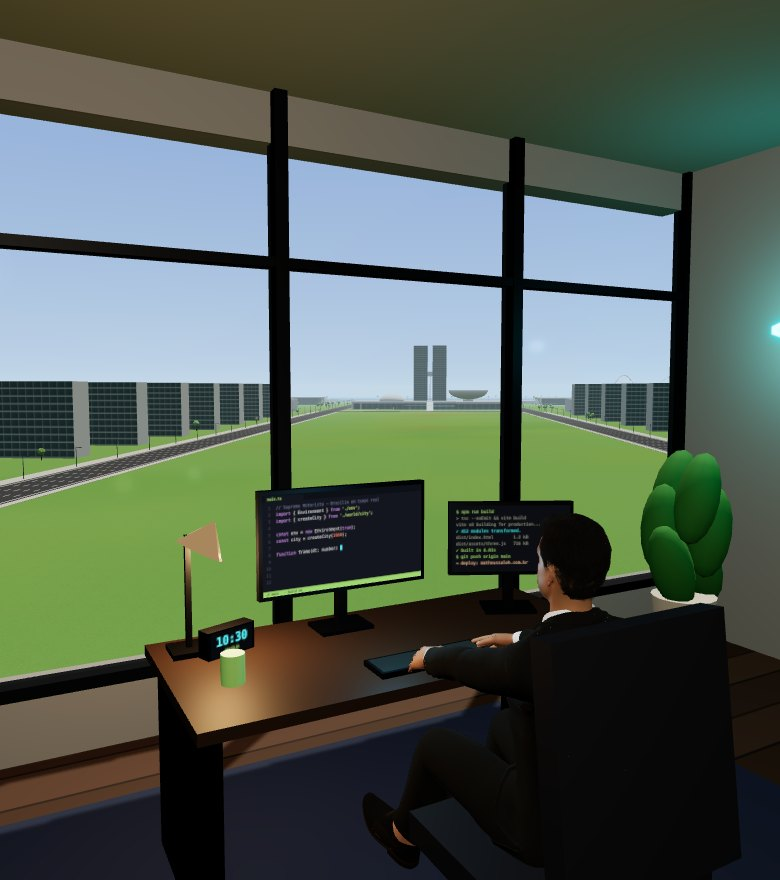
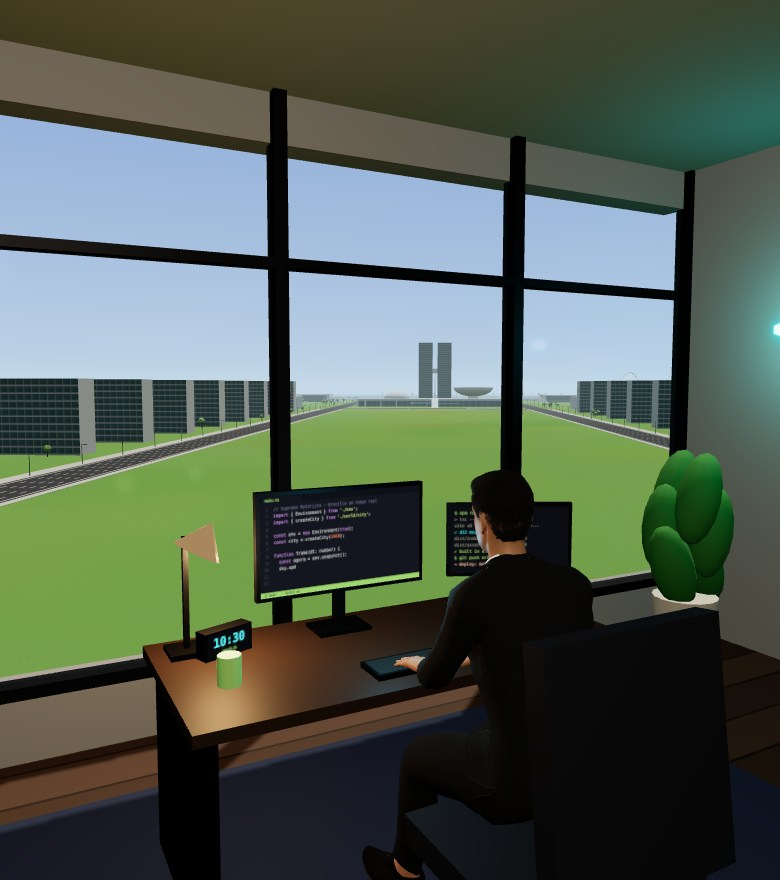
feat: Josué reage ao visitante na cena ao vivo do topo
- Ao abrir a página, Josué entra caminhando e senta à mesa (iframe com ?intro;
  a entrada começa depois da tela de carregamento)
- Acena ao passar o mouse ou o foco em Contato, GitHub e LinkedIn
  (atributo data-vitrine-wave)
- Comemora quando uma conquista é desbloqueada
- O monitor da cena mostra o projeto aberto no Baú
- lib/vitrine-bus: sendToVitrine() para qualquer componente pedir uma reação;
  pedidos feitos antes de a cena ficar pronta são enviados quando ela fica
- Imagens estáticas regeradas com a pose sentada nova

diff --git a/src/components/hero/live-scene.tsx b/src/components/hero/live-scene.tsx
@@ -1,7 +1,7 @@
 "use client";
 
 import { getImageProps, type StaticImageData } from "next/image";
-import { useEffect, useRef, useState } from "react";
+import { useCallback, useEffect, useRef, useState } from "react";
 import diaRetrato from "@/assets/hero/vitrine-dia-retrato.jpg";
 import dia from "@/assets/hero/vitrine-dia.jpg";
 import entardecerRetrato from "@/assets/hero/vitrine-entardecer-retrato.jpg";
@@ -12,6 +12,7 @@ import type { Content } from "@/content/types";
 import { gameOrigin, vitrineUrl } from "@/content/supremo-motorista";
 import type { DayPhase } from "@/lib/day-phase";
 import { cx } from "@/lib/cx";
+import { sendToVitrine, VITRINE_EVENT, WAVE_ATTRIBUTE, type VitrineCommand } from "@/lib/vitrine-bus";
 import { useGame } from "../game-provider";
 
 /**
@@ -61,6 +62,11 @@ export function LiveScene({ scene, href }: { scene: Content["hero"]["game"]["sce
   const [mountFrame, setMountFrame] = useState(false);
   const [live, setLive] = useState(false);
   const [posterLoaded, setPosterLoaded] = useState(false);
+  const [bootDone, setBootDone] = useState(false);
+  const liveRef = useRef(false);
+  /** Pedidos feitos antes de a cena ficar pronta (o último de cada tipo), enviados quando ela fica. */
+  const pending = useRef<{ project?: VitrineCommand; reaction?: VitrineCommand }>({});
+  const arrived = useRef(false);
 
   // Com a tela de carregamento ativa, a cena começa já (o progresso dela aparece lá). Sem ela (visita repetida na
   // sessão), só depois do carregamento da página e com o navegador ocioso.
@@ -110,6 +116,80 @@ export function LiveScene({ scene, href }: { scene: Content["hero"]["game"]["sce
     return () => observer.disconnect();
   }, [live]);
 
+  // Repassa um pedido ao iframe (formato que a vitrine valida; ver Showcase.onCommand no repositório do jogo).
+  const post = useCallback((command: VitrineCommand) => {
+    const target = frame.current?.contentWindow;
+    if (!target) return;
+    const message =
+      command.action === "project"
+        ? {
+            type: "supremo-vitrine:project",
+            name: command.name,
+            caption: command.caption,
+            techs: command.techs,
+            locale: document.documentElement.lang.startsWith("en") ? "en" : "pt",
+          }
+        : { type: "supremo-vitrine:react", action: command.action };
+    target.postMessage(message, gameOrigin);
+  }, []);
+
+  // Pedidos do resto do portfólio (lib/vitrine-bus) e aceno quando o mouse passa ou o foco chega num elemento
+  // marcado (um a cada 6 s, para não repetir enquanto a pessoa mexe o mouse).
+  useEffect(() => {
+    let lastWave = -Infinity;
+    const onCommand = (event: Event) => {
+      const command = (event as CustomEvent<VitrineCommand>).detail;
+      if (liveRef.current) post(command);
+      else pending.current[command.action === "project" ? "project" : "reaction"] = command;
+    };
+    const onHover = (event: Event) => {
+      if (!(event.target instanceof Element) || !event.target.closest(`[${WAVE_ATTRIBUTE}]`)) return;
+      const now = performance.now();
+      if (now - lastWave < 6000) return;
+      lastWave = now;
+      sendToVitrine({ action: "wave" });
+    };
+    window.addEventListener(VITRINE_EVENT, onCommand);
+    document.addEventListener("pointerover", onHover);
+    document.addEventListener("focusin", onHover);
+    return () => {
+      window.removeEventListener(VITRINE_EVENT, onCommand);
+      document.removeEventListener("pointerover", onHover);
+      document.removeEventListener("focusin", onHover);
+    };
+  }, [post]);
+
+  // Pronta: envia o que ficou guardado.
+  useEffect(() => {
+    liveRef.current = live;
+    if (!live) return;
+    const { project, reaction } = pending.current;
+    pending.current = {};
+    if (project) post(project);
+    if (reaction) post(reaction);
+  }, [live, post]);
+
+  // A tela de carregamento saiu (ou nem apareceu): é quando o visitante passa a ver a cena.
+  useEffect(() => {
+    if (document.documentElement.dataset.boot !== "active") {
+      const id = requestAnimationFrame(() => setBootDone(true));
+      return () => cancelAnimationFrame(id);
+    }
+    const onDone = () => setBootDone(true);
+    window.addEventListener("portfolio:boot-done", onDone, { once: true });
+    return () => window.removeEventListener("portfolio:boot-done", onDone);
+  }, []);
+
+  // Entrada: com a cena pronta e à vista, Josué (que começa fora da sala) entra caminhando e senta à mesa.
+  useEffect(() => {
+    if (!live || !bootDone || arrived.current) return;
+    const id = window.setTimeout(() => {
+      arrived.current = true;
+      sendToVitrine({ action: "arrive" });
+    }, 200);
+    return () => clearTimeout(id);
+  }, [live, bootDone]);
+
   return (
     <div
       ref={box}
@@ -129,7 +209,7 @@ export function LiveScene({ scene, href }: { scene: Content["hero"]["game"]["sce
         {mountFrame && (
           <iframe
             ref={frame}
-            src={vitrineUrl}
+            src={`${vitrineUrl}?intro`}
             title={scene.title}
             tabIndex={-1}
             sandbox="allow-scripts allow-same-origin"

diff --git a/src/lib/vitrine-bus.ts b/src/lib/vitrine-bus.ts
@@ -1,0 +1,22 @@
+// Pedidos de qualquer parte do portfólio para a cena ao vivo do topo (components/hero/live-scene.tsx), que os
+// repassa ao iframe do jogo. Sem cena (celular sem WebGL, ainda carregando), o pedido é guardado ou ignorado.
+
+export type VitrineCommand =
+  /** Entrada: Josué entra caminhando, vai até a mesa e senta (a cena começa com a cadeira vazia). */
+  | { action: "arrive" }
+  /** Josué levanta, vira para a câmera e acena. */
+  | { action: "wave" }
+  /** Josué levanta e comemora (conquista desbloqueada). */
+  | { action: "cheer" }
+  /** O monitor mostra o projeto que o visitante abriu. */
+  | { action: "project"; name: string; caption: string; techs: string[] };
+
+export const VITRINE_EVENT = "portfolio:vitrine";
+
+export function sendToVitrine(command: VitrineCommand): void {
+  if (typeof window === "undefined") return;
+  window.dispatchEvent(new CustomEvent<VitrineCommand>(VITRINE_EVENT, { detail: command }));
+}
+
+/** Atributo que faz Josué acenar quando o mouse passa (ou o foco chega) no elemento: `<a data-vitrine-wave="">`. */
+export const WAVE_ATTRIBUTE = "data-vitrine-wave";

diff --git a/src/components/site-header.tsx b/src/components/site-header.tsx
@@ -92,6 +92,7 @@ export function SiteHeader({ nav, header, languageSwitch, resume, homeHref = "",
                 href={href ?? `${homeHref}#${id}`}
                 aria-current={active ? (href ? "page" : "location") : undefined}
                 onClick={() => selectSlot(slot)}
+                data-vitrine-wave={id === "contato" ? "" : undefined}
                 className={cx(
                   "relative flex h-12 items-center justify-center px-3 text-label-md uppercase transition-none active:translate-y-0.5",
                   active
@@ -182,6 +183,7 @@ export function SiteHeader({ nav, header, languageSwitch, resume, homeHref = "",
                       href={href ?? `${homeHref}#${id}`}
                       aria-current={active ? (href ? "page" : "location") : undefined}
                       onClick={() => selectSlot(slot)}
+                      data-vitrine-wave={id === "contato" ? "" : undefined}
                       className={cx(
                         "relative flex h-14 items-center justify-center px-2 text-label-md uppercase",
                         active

diff --git a/src/components/game-provider.tsx b/src/components/game-provider.tsx
@@ -4,6 +4,7 @@ import { createContext, useCallback, useContext, useEffect, useMemo, useRef, use
 import type { ExplorationId, GameStrings } from "@/content/types";
 import { getDayPhase, type DayPhase } from "@/lib/day-phase";
 import { playSlotSound, playToggleSound } from "@/lib/sfx";
+import { sendToVitrine } from "@/lib/vitrine-bus";
 import { AdvancementToast } from "./advancement-toast";
 
 const TOAST_DURATION_MS = 4200;
@@ -110,6 +111,7 @@ export function GameProvider({ strings, children }: { strings: GameStrings; chil
       const achievement = strings.exploration.find((item) => item.id === id);
       if (achievement) notify(achievement.title, achievement.description);
       if (sfxEnabled) playToggleSound(true);
+      sendToVitrine({ action: "cheer" }); // Josué comemora na cena do topo
     },
     [strings.exploration, notify, sfxEnabled],
   );

diff --git a/src/components/sections/projects.tsx b/src/components/sections/projects.tsx
@@ -5,6 +5,7 @@ import { useState } from "react";
 import type { Content, Project, ProjectCategory } from "@/content/types";
 import { cx } from "@/lib/cx";
 import { pageGutter } from "@/lib/layout";
+import { sendToVitrine } from "@/lib/vitrine-bus";
 import { useGame } from "../game-provider";
 import { Icon } from "../icon";
 import { ProjectModal } from "../project-modal";
@@ -71,6 +72,8 @@ export function ProjectsSection({ projects }: Pick<Content, "projects">) {
                 playSlot(3);
                 setOpenProject(project);
                 inspectProject(project.id, items.length);
+                // O monitor da cena do topo passa a mostrar o projeto aberto.
+                sendToVitrine({ action: "project", name: project.name, caption: project.caption, techs: project.details.techs });
               }}
             />
           </li>

diff --git a/src/components/sections/hero.tsx b/src/components/sections/hero.tsx
@@ -101,6 +101,7 @@ export function HeroSection({ hero, resume }: Pick<Content, "hero" | "resume">) 
             </a>
             <a
               href={profile.github}
+              data-vitrine-wave=""
               target="_blank"
               rel="noreferrer"
               className={cx(ctaBase, "bg-surface-container-low text-on-surface voxel-btn-bevel hover:text-primary")}
@@ -110,6 +111,7 @@ export function HeroSection({ hero, resume }: Pick<Content, "hero" | "resume">) 
             </a>
             <a
               href={profile.linkedin}
+              data-vitrine-wave=""
               target="_blank"
               rel="noreferrer"
               className={cx(ctaBase, "bg-surface-container-low text-on-surface voxel-btn-bevel hover:text-secondary")}

diff --git a/src/components/boot-screen.tsx b/src/components/boot-screen.tsx
@@ -204,6 +204,7 @@ export function BootScreen({ boot }: { boot: Content["boot"] }) {
       // Sem sessionStorage: só aparece de novo no próximo carregamento.
     }
     document.documentElement.style.overflow = "";
+    window.dispatchEvent(new Event("portfolio:boot-done")); // a cena do topo já pode cumprimentar
     const id = window.setTimeout(() => {
       document.documentElement.dataset.boot = "done";
       setPhase("gone");
